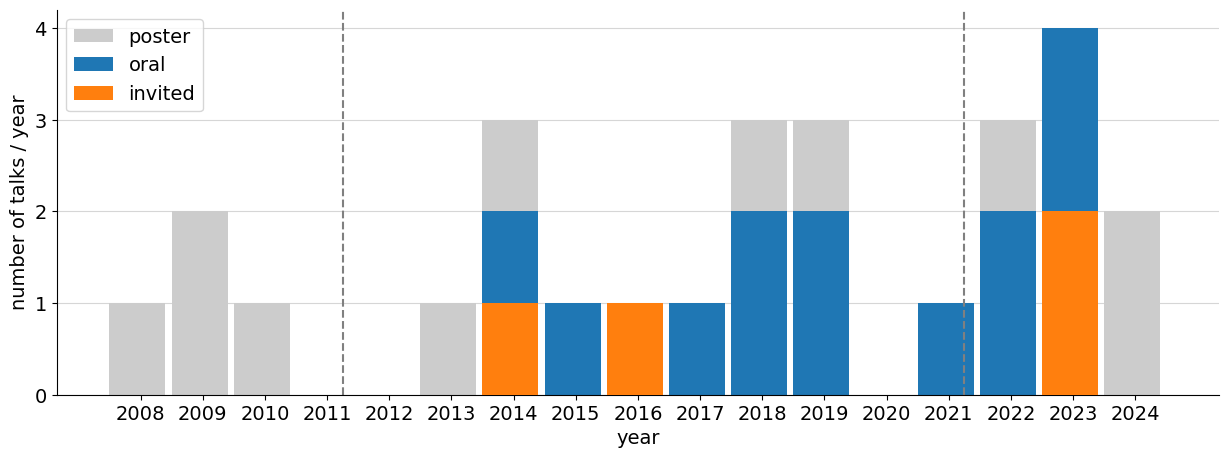
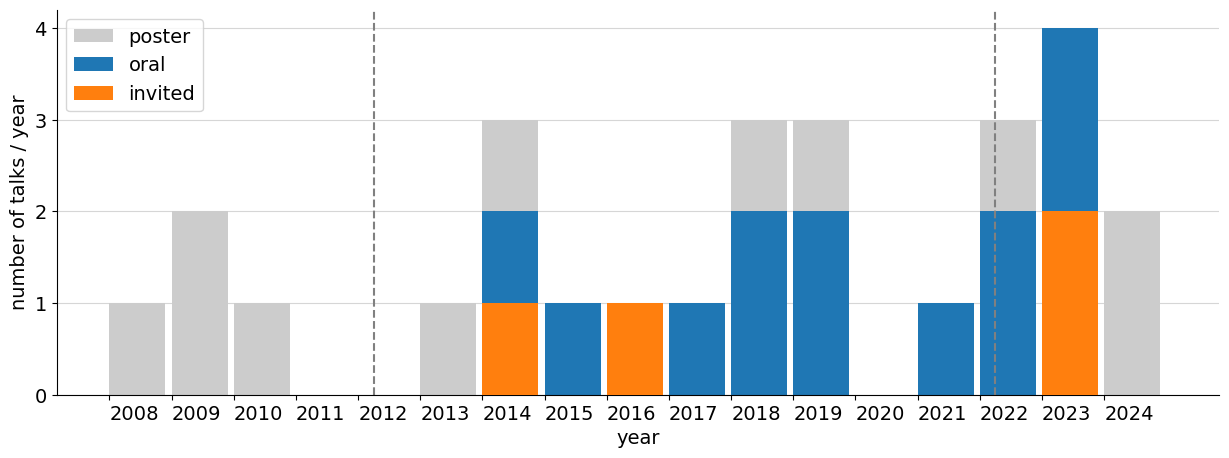
Adding Kajita's ML papers

Changed region(s): [[0.0928, 0.8865, 0.9585, 0.917]]

diff --git a/make_figures.py b/make_figures.py
@@ -56,7 +56,7 @@ years = np.concatenate([first_years, coaut_years])
 plt.figure(figsize=(15, 5))
 plt.hist(first_years, bins=bins, color='C0', width=0.9, label='first authored', zorder=3)
 plt.hist(years, bins=bins, color='0.8', width=0.9, label='all', zorder=1,)
-plt.xticks(bin_centers, ['{}'.format(b) for b in bin_centers]) 
+plt.xticks(bins[:-1], ['{}'.format(b) for b in bin_centers], horizontalalignment='left') 
 plt.gca().yaxis.grid(color='0.8', alpha=0.8)
 plt.xlabel('year')
 plt.ylabel('number of papers / year')
@@ -68,7 +68,7 @@ for y, m, height, position in positions:
         now = now.year + now.month / 12 + 1
     else:
         now = y + m / 12
-        plt.axvline(now - 1, color='0.5', ls='--')
+        plt.axvline(now - 0.5, color='0.5', ls='--')
     plt.text((start + now) / 2 - 1, height, position, color='k', ha='center')
     start = now
     
@@ -100,7 +100,7 @@ plt.figure(figsize=(15, 5))
 plt.hist(years, bins=bins, color='0.8', width=0.9, label='poster', zorder=1)
 plt.hist([y for y, t in zip(years, talk_types) if t in ['oral', 'invited']], bins=bins, color='C0', width=0.9, label='oral', zorder=2)
 plt.hist([y for y, t in zip(years, talk_types) if t == 'invited'], bins=bins, color='C1', width=0.9, label='invited', zorder=3)
-plt.xticks(bin_centers, ['{}'.format(b) for b in bin_centers]) 
+plt.xticks(bins[:-1], ['{}'.format(b) for b in bin_centers], horizontalalignment='left') 
 plt.gca().yaxis.grid(color='0.8', alpha=0.8)
 plt.xlabel('year')
 plt.gca().yaxis.set_major_locator(MaxNLocator(integer=True))
@@ -113,7 +113,7 @@ for y, m, height, position in positions:
         now = now.year + now.month / 12 + 1
     else:
         now = y + m / 12
-        plt.axvline(now - 1, color='0.5', ls='--')
+        plt.axvline(now - 0.5, color='0.5', ls='--')
     start = now
 
 plt.legend(loc='upper left')
@@ -140,7 +140,7 @@ for line in lines[1:]:
 
 plt.figure(figsize=(15, 5))
 plt.hist(years, bins=bins, color='C0', width=0.9)
-plt.xticks(bin_centers, ['{}'.format(b) for b in bin_centers]) 
+plt.xticks(bins[:-1], ['{}'.format(b) for b in bin_centers], horizontalalignment='left') 
 plt.gca().yaxis.grid(color='0.8', alpha=0.8)
 plt.xlabel('year')
 plt.gca().yaxis.set_major_locator(MaxNLocator(integer=True))
@@ -153,7 +153,7 @@ for y, m, height, position in positions:
         now = now.year + now.month / 12 + 1
     else:
         now = y + m / 12
-        plt.axvline(now - 1, color='0.5', ls='--')
+        plt.axvline(now - 0.5, color='0.5', ls='--')
     start = now
 
 sns.despine()

diff --git a/publications/index.md b/publications/index.md
@@ -130,197 +130,207 @@ layout: publications
 <a href="https://doi.org/10.1063/1.3356730">10.1063/1.3356730</a>  
 
 # List of published papers
-1. **Atomic and ionic hydrogen flux probe for quantitative in-situ monitoring of hydrogen recycling**  
+1. **Machine learning aided line intensity ratio method for helium–hydrogen mixed recombining plasmas**  
+ Shin Kajita, Daisuke Nishijima, **<u>Keisuke Fujii</u>**, Hirohiko Tanaka, Jordy Vernimmen, Hennie van der Meiden, Ivo Classen, Noriyasu Ohno  
+ *Plasma Physics and Controlled Fusion* **66,** 105005 (2024)  
+<a href="https://doi.org/10.1088/1361-6587/ad6a81">10.1088/1361-6587/ad6a81</a>  
+
+2. **Application of machine learning for optical emission spectroscopy data in NAGDIS-II**  
+ Shin Kajita, Takehiro Sakakibara, Hideki Kaizawa, Hiroki Natsume, Hirohiko Tanaka, **<u>Keisuke Fujii</u>**, Noriyasu Ohno  
+ *Fusion Engineering and Design* **196,** 114012 (2023)  
+<a href="https://doi.org/10.1016/j.fusengdes.2023.114012">10.1016/j.fusengdes.2023.114012</a>  
+
+3. **Atomic and ionic hydrogen flux probe for quantitative in-situ monitoring of hydrogen recycling**  
  A. Kuzmin, K. Miura, M. Kobayashi, K. Hanada, **<u>K. Fujii</u>**, T. Shikama, M. Hasuo, H. Zushi  
  *Fusion Engineering and Design* **189,** 113462 (2023)  
 <a href="https://doi.org/10.1016/j.fusengdes.2023.113462">10.1016/j.fusengdes.2023.113462</a>  
 
-2. **Use of machine learning for a helium line intensity ratio method in Magnum-PSI**  
+4. **Use of machine learning for a helium line intensity ratio method in Magnum-PSI**  
  Shin Kajita, Sho Iwai, Hirohiko Tanaka, Daisuke Nishijima, **<u>Keisuke Fujii</u>**, Hennie van der Meiden, Noriyasu Ohno  
  *Nuclear Materials and Energy* **33,** 101281 (2022)  
 <a href="https://doi.org/10.1016/j.nme.2022.101281">10.1016/j.nme.2022.101281</a>  
 
-3. **Modeling the wavelength of unresolved transition arrays in the extreme ultraviolet region from Sn to Hf ions by combining theoretical and experimental spectral data**  
+5. **Modeling the wavelength of unresolved transition arrays in the extreme ultraviolet region from Sn to Hf ions by combining theoretical and experimental spectral data**  
  A. Sasaki, **<u>K. Fujii</u>**, I. Murakami, H. A. Sakaue, T. Nishikawa, H. Ohashi, N. Nakamura  
  *AIP Advances* **12,** 025309 (2022)  
 <a href="https://doi.org/10.1063/5.0077130">10.1063/5.0077130</a>  
 
-4. **Comprehensive Laboratory Measurements Resolving the LMM Dielectronic Recombination Satellite Lines in Ne-like Fe xvii Ions**  
- Filipe Grilo, Chintan Shah, Steffen Kühn, René Steinbrügge, **<u>Keisuke Fujii</u>**, José Marques, Ming Feng Gu, José Paulo Santos, José R. Crespo López-Urrutia, Pedro Amaro  
- *The Astrophysical Journal* **913,** 140 (2021)  
-<a href="https://doi.org/10.3847/1538-4357/abf737">10.3847/1538-4357/abf737</a>  
-
-5. **Ro-vibrational population distribution in the ground state of hydrogen isotopologues in LHD peripheral plasmas deduced from emission spectroscopy**  
+6. **Ro-vibrational population distribution in the ground state of hydrogen isotopologues in LHD peripheral plasmas deduced from emission spectroscopy**  
  Hiroki Ishihara, Arseniy Kuzmin, Masahiro Kobayashi, Taiichi Shikama, Keiji Sawada, Seiki Saito, Hiroaki Nakamura, **<u>Keisuke Fujii</u>**, Masahiro Hasuo  
  *Journal of Quantitative Spectroscopy and Radiative Transfer* **267,** 107592 (2021)  
 <a href="https://doi.org/10.1016/j.jqsrt.2021.107592">10.1016/j.jqsrt.2021.107592</a>  
 
-6. **Application of multiple regression for sensitivity analysis of helium line emissions to the electron density and temperature in Magnum-PSI**  
+7. **Comprehensive Laboratory Measurements Resolving the LMM Dielectronic Recombination Satellite Lines in Ne-like Fe xvii Ions**  
+ Filipe Grilo, Chintan Shah, Steffen Kühn, René Steinbrügge, **<u>Keisuke Fujii</u>**, José Marques, Ming Feng Gu, José Paulo Santos, José R. Crespo López-Urrutia, Pedro Amaro  
+ *The Astrophysical Journal* **913,** 140 (2021)  
+<a href="https://doi.org/10.3847/1538-4357/abf737">10.3847/1538-4357/abf737</a>  
+
+8. **Application of multiple regression for sensitivity analysis of helium line emissions to the electron density and temperature in Magnum-PSI**  
  Shin Kajita, Daisuke Nishijima, **<u>Keisuke Fujii</u>**, Gijs Akkermans, Hennie van der Meiden  
  *Plasma Physics and Controlled Fusion* **63,** 055018 (2021)  
 <a href="https://doi.org/10.1088/1361-6587/abf36e">10.1088/1361-6587/abf36e</a>  
 
-7. **On the triad transfer analysis of plasma turbulence: symmetrization, coarse graining, and directional representation**  
+9. **On the triad transfer analysis of plasma turbulence: symmetrization, coarse graining, and directional representation**  
  S Maeyama, M Sasaki, **<u>K Fujii</u>**, T Kobayashi, R O Dendy, Y Kawachi, H Arakawa, S Inagaki  
  *New Journal of Physics* **23,** 043049 (2021)  
 <a href="https://doi.org/10.1088/1367-2630/abeffc">10.1088/1367-2630/abeffc</a>  
 
-8. **Compressing the time series of five dimensional distribution function data from gyrokinetic simulation using principal component analysis**  
+10. **Compressing the time series of five dimensional distribution function data from gyrokinetic simulation using principal component analysis**  
  Yuuichi Asahi, **<u>Keisuke Fujii</u>**, Dennis Manuel Heim, Shinya Maeyama, Xavier Garbet, Virginie Grandgirard, Yanick Sarazin, Guilhem Dif-Pradalier, Yasuhiro Idomura, Masatoshi Yagi  
  *Physics of Plasmas* **28,** 012304 (2021)  
 <a href="https://doi.org/10.1063/5.0023166">10.1063/5.0023166</a>  
 
-9. **Plasma Spectroscopy on an Aluminum-Pellet Ablation Cloud in an LHD Plasma with an Echelle Spectrometer**  
- Hirotaka Tanaka, **<u>Keisuke Fujii</u>**, Taiichi Shikama, Shigeru Morita, Motoshi Goto, Masahiro Hasuo  
- *Atoms* **8,** 81 (2020)  
-<a href="https://doi.org/10.3390/atoms8040081">10.3390/atoms8040081</a>  
-
-10. **Observation of strong two-electron–one-photon transitions in few-electron ions**  
+11. **Observation of strong two-electron–one-photon transitions in few-electron ions**  
  M. Togawa, S. Kühn, C. Shah, P. Amaro, R. Steinbrügge, J. Stierhof, N. Hell, M. Rosner, **<u>K. Fujii</u>**, M. Bissinger, R. Ballhausen, M. Hoesch, J. Seltmann, S. Park, F. Grilo, F. S. Porter, J. P. Santos, M. Chung, T. Stöhlker, J. Wilms, T. Pfeifer, G. V. Brown, M. A. Leutenegger, S. Bernitt, J. R. Crespo López-Urrutia  
  *Physical Review A* **102,** 052831 (2020)  
 <a href="https://doi.org/10.1103/PhysRevA.102.052831">10.1103/PhysRevA.102.052831</a>  
 
-11. **High Resolution Photoexcitation Measurements Exacerbate the Long-Standing Fe XVII Oscillator Strength Problem**  
+12. **Plasma Spectroscopy on an Aluminum-Pellet Ablation Cloud in an LHD Plasma with an Echelle Spectrometer**  
+ Hirotaka Tanaka, **<u>Keisuke Fujii</u>**, Taiichi Shikama, Shigeru Morita, Motoshi Goto, Masahiro Hasuo  
+ *Atoms* **8,** 81 (2020)  
+<a href="https://doi.org/10.3390/atoms8040081">10.3390/atoms8040081</a>  
+
+13. **High Resolution Photoexcitation Measurements Exacerbate the Long-Standing Fe XVII Oscillator Strength Problem**  
  Steffen Kühn, Chintan Shah, José R. Crespo López-Urrutia, **<u>Keisuke Fujii</u>**, René Steinbrügge, Jakob Stierhof, Moto Togawa, Zoltán Harman, Natalia S. Oreshkina, Charles Cheung, Mikhail G. Kozlov, Sergey G. Porsev, Marianna S. Safronova, Julian C. Berengut, Michael Rosner, Matthias Bissinger, Ralf Ballhausen, Natalie Hell, SungNam Park, Moses Chung, Moritz Hoesch, Jörn Seltmann, Andrey S. Surzhykov, Vladimir A. Yerokhin, Jörn Wilms, F. Scott Porter, Thomas Stöhlker, Christoph H. Keitel, Thomas Pfeifer, Gregory V. Brown, Maurice A. Leutenegger, Sven Bernitt  
  *Physical Review Letters* **124,** 225001 (2020)  
 <a href="https://doi.org/10.1103/PhysRevLett.124.225001">10.1103/PhysRevLett.124.225001</a>  
 
-12. **Emission spectroscopy of He lines in high-density plasmas in Magnum-PSI**  
+14. **Emission spectroscopy of He lines in high-density plasmas in Magnum-PSI**  
  Shin Kajita, Gijs Akkermans, **<u>Keisuke Fujii</u>**, Hennie van der Meiden, M. C. M. van de Sanden  
  *AIP Advances* **10,** 025225 (2020)  
 <a href="https://doi.org/10.1063/1.5143481">10.1063/1.5143481</a>  
 
-13. **Isotope Effect on Energy Confinement Time and Thermal Transport in Neutral-Beam-Heated Stellarator-Heliotron Plasmas**  
+15. **Isotope Effect on Energy Confinement Time and Thermal Transport in Neutral-Beam-Heated Stellarator-Heliotron Plasmas**  
  H. Yamada, K. Tanaka, R. Seki, C. Suzuki, K. Ida, **<u>K. Fujii</u>**, M. Goto, S. Murakami, M. Osakabe, T. Tokuzawa, M. Yokoyama, M. Yoshinuma, LHD Experiment Group  
  *Physical Review Letters* **123,** 185001 (2019)  
 <a href="https://doi.org/10.1103/PhysRevLett.123.185001">10.1103/PhysRevLett.123.185001</a>  
 
-14. **Atomic kinetics calculations of complex highly-charged ions in plasmas in non-local thermodynamic equilibrium by using a Monte-Carlo approach**  
+16. **Atomic kinetics calculations of complex highly-charged ions in plasmas in non-local thermodynamic equilibrium by using a Monte-Carlo approach**  
  Akira Sasaki, Richard M. More, **<u>Keisuke Fujii</u>**, Daiji Kato, Izumi Murakami  
  *High Energy Density Physics* **32,** 1-7 (2019)  
 <a href="https://doi.org/10.1016/j.hedp.2019.04.005">10.1016/j.hedp.2019.04.005</a>  
 
-15. **The isotope effect on impurities and bulk ion particle transport in the Large Helical Device**  
+17. **The isotope effect on impurities and bulk ion particle transport in the Large Helical Device**  
  K. Ida, R. Sakamoto, M. Yoshinuma, K. Yamazaki, T. Kobayashi, Y. Fujiwara, C. Suzuki, K. Fuji, J. Chen, I. Murakami, M. Emoto, R. Mackenbach, H. Yamada, G. Motojima, S. Masuzaki, K. Mukai, K. Nagaoka, H. Takahashi, T. Oishi, M. Goto, S. Morita, N. Tamura, H. Nakano, S. Kamio, R. Seki, M. Yokoyama, S. Murakami, M. Nunami, M. Nakata, T. Morisaki, M. Osakabe,  the LHD Experiment Group  
  *Nuclear Fusion* **59,** 056029 (2019)  
 <a href="https://doi.org/10.1088/1741-4326/ab0e41">10.1088/1741-4326/ab0e41</a>  
 
-16. **Spatially resolved laser absorption spectroscopy on a micro-hollow cathode He plasma**  
+18. **Spatially resolved laser absorption spectroscopy on a micro-hollow cathode He plasma**  
  Keisuke Ueno, Kenta Kamebuchi, Jiro Kakutani, Leo Matsuoka, Shinichi Namba, **<u>Keisuke Fujii</u>**, Taiichi Shikama, Masahiro Hasuo  
  *Japanese Journal of Applied Physics* **58,** SAAB03 (2019)  
 <a href="https://doi.org/10.7567/1347-4065/aaec19">10.7567/1347-4065/aaec19</a>  
 
-17. **Analysis of the impurity flow velocity in a wide plasma parameter range for deuterium and hydrogen plasmas in the divertor legs of the stochastic layer in LHD**  
+19. **Analysis of the impurity flow velocity in a wide plasma parameter range for deuterium and hydrogen plasmas in the divertor legs of the stochastic layer in LHD**  
  A. Kuzmin, M. Kobayashi, T. Nakano, G. Kawamura, M. Hasuo, **<u>K. Fujii</u>**, T. Morisaki  
  *Nuclear Materials and Energy* **17,** 217-221 (2018)  
 <a href="https://doi.org/10.1016/j.nme.2018.11.009">10.1016/j.nme.2018.11.009</a>  
 
-18. **Laser absorption spectroscopy for measurement of He metastable atoms of a microhollow cathode plasma**  
+20. **Laser absorption spectroscopy for measurement of He metastable atoms of a microhollow cathode plasma**  
  Keisuke Ueno, Kenta Kamebuchi, Jiro Kakutani, Leo Matsuoka, Shinichi Namba, **<u>Keisuke Fujii</u>**, Taiichi Shikama, Masahiro Hasuo  
  *Japanese Journal of Applied Physics* **57,** 01AA03 (2018)  
 <a href="https://doi.org/10.7567/jjap.57.01aa03">10.7567/jjap.57.01aa03</a>  
 
-19. **Measurements of the Impurity Flow Velocity and Temperature in Deuterium and Hydrogen Plasmas in the Divertor Legs of the Stochastic Layer in LHD**  
- Arseniy KUZMIN, Masahiro KOBAYASHI, Tomohide NAKANO, Masahiro HASUO, **<u>Keisuke FUJII</u>**, Motoshi GOTO, Taiichi SHIKAMA, Tomohiro MORISAKI,  the LHD Experiment Group  
- *Plasma and Fusion Research* **13,** 3402058-3402058 (2018)  
-<a href="https://doi.org/10.1585/pfr.13.3402058">10.1585/pfr.13.3402058</a>  
-
-20. **Spatially Resolved Measurements of Metastable Atom Density and Electric Field Strength in a Microhollow Cathode Helium Plasma by Laser Absorption Spectroscopy**  
+21. **Spatially Resolved Measurements of Metastable Atom Density and Electric Field Strength in a Microhollow Cathode Helium Plasma by Laser Absorption Spectroscopy**  
  Keisuke UENO, Kenta KAMEBUCHI, Jiro KAKUTANI, Leo MATSUOKA, Shinichi NAMBA, **<u>Keisuke FUJII</u>**, Taiichi SHIKAMA, Masahiro HASUO  
  *Plasma and Fusion Research* **13,** 3406070-3406070 (2018)  
 <a href="https://doi.org/10.1585/pfr.13.3406070">10.1585/pfr.13.3406070</a>  
 
-21. **Extension of the operational regime of the LHD towards a deuterium experiment**  
+22. **Measurements of the Impurity Flow Velocity and Temperature in Deuterium and Hydrogen Plasmas in the Divertor Legs of the Stochastic Layer in LHD**  
+ Arseniy KUZMIN, Masahiro KOBAYASHI, Tomohide NAKANO, Masahiro HASUO, **<u>Keisuke FUJII</u>**, Motoshi GOTO, Taiichi SHIKAMA, Tomohiro MORISAKI,  the LHD Experiment Group  
+ *Plasma and Fusion Research* **13,** 3402058-3402058 (2018)  
+<a href="https://doi.org/10.1585/pfr.13.3402058">10.1585/pfr.13.3402058</a>  
+
+23. **Extension of the operational regime of the LHD towards a deuterium experiment**  
  Y. Takeiri, T. Morisaki, M. Osakabe, M. Yokoyama, S. Sakakibara, H. Takahashi, Y. Nakamura, T. Oishi, G. Motojima, S. Murakami, K. Ito, A. Ejiri, S. Imagawa, S. Inagaki, M. Isobe, S. Kubo, S. Masamune, T. Mito, I. Murakami, K. Nagaoka, K. Nagasaki, K. Nishimura, M. Sakamoto, R. Sakamoto, T. Shimozuma, K. Shinohara, H. Sugama, K.Y. Watanabe, J.W. Ahn, N. Akata, T. Akiyama, N. Ashikawa, J. Baldzuhn, T. Bando, E. Bernard, F. Castejón, H. Chikaraishi, M. Emoto, T. Evans, N. Ezumi, **<u>K. Fujii</u>**, H. Funaba, M. Goto, T. Goto, D. Gradic, Y. Gunsu, S. Hamaguchi, H. Hasegawa, Y. Hayashi, C. Hidalgo, T. Higashiguchi, Y. Hirooka, Y. Hishinuma, R. Horiuchi, K. Ichiguchi, K. Ida, T. Ido, H. Igami, K. Ikeda, S. Ishiguro, R. Ishizaki, A. Ishizawa, A. Ito, Y. Ito, A. Iwamoto, S. Kamio, K. Kamiya, O. Kaneko, R. Kanno, H. Kasahara, D. Kato, T. Kato, K. Kawahata, G. Kawamura, M. Kisaki, S. Kitajima, W.H. Ko, M. Kobayashi, S. Kobayashi, T. Kobayashi, K. Koga, A. Kohyama, R. Kumazawa, J.H. Lee, D. López-Bruna, R. Makino, S. Masuzaki, Y. Matsumoto, H. Matsuura, O. Mitarai, H. Miura, J. Miyazawa, N. Mizuguchi, C. Moon, S. Morita, T. Moritaka, K. Mukai, T. Muroga, S. Muto, T. Mutoh, T. Nagasaka, Y. Nagayama, N. Nakajima, Y. Nakamura, H. Nakanishi, H. Nakano, M. Nakata, Y. Narushima, D. Nishijima, A. Nishimura, S. Nishimura, T. Nishitani, M. Nishiura, Y. Nobuta, H. Noto, M. Nunami, T. Obana, K. Ogawa, S. Ohdachi, M. Ohno, N. Ohno, H. Ohtani, M. Okamoto, Y. Oya, T. Ozaki, B.J. Peterson, M. Preynas, S. Sagara, K. Saito, H. Sakaue, A. Sanpei, S. Satake, M. Sato, T. Saze, O. Schmitz, R. Seki, T. Seki, I. Sharov, A. Shimizu, M. Shiratani, M. Shoji, C. Skinner, R. Soga, T. Stange, C. Suzuki, Y. Suzuki, S. Takada, K. Takahata, A. Takayama, S. Takayama, Y. Takemura, Y. Takeuchi, H. Tamura, N. Tamura, H. Tanaka, K. Tanaka, M. Tanaka, T. Tanaka, Y. Tanaka, S. Toda, Y. Todo, K. Toi, M. Toida, M. Tokitani, T. Tokuzawa, H. Tsuchiya, T. Tsujimura, K. Tsumori, S. Usami, J.L. Velasco, H. Wang, T.-H. Watanabe, T. Watanabe, J. Yagi, M. Yajima, H. Yamada, I. Yamada, O. Yamagishi, N. Yamaguchi, Y. Yamamoto, N. Yanagi, R. Yasuhara, E. Yatsuka, N. Yoshida, M. Yoshinuma, S. Yoshimura, Y. Yoshimura  
  *Nuclear Fusion* **57,** 102023 (2017)  
 <a href="https://doi.org/10.1088/1741-4326/aa7fc2">10.1088/1741-4326/aa7fc2</a>  
 
-22. **Behavior of 23S metastable state He atoms in low-temperature recombining plasmas**  
+24. **Behavior of 23S metastable state He atoms in low-temperature recombining plasmas**  
  Shin Kajita, Tadashi Tsujihara, Mitsutoshi Aramaki, Hennie van der Meiden, Hiroshi Oshima, Noriyasu Ohno, Hirohiko Tanaka, Ryo Yasuhara, Tsuyoshi Akiyama, **<u>Keisuke Fujii</u>**, Taiichi Shikama  
  *Physics of Plasmas* **24,** 073301 (2017)  
 <a href="https://doi.org/10.1063/1.4990077">10.1063/1.4990077</a>  
 
-23. **Comparison of Ion Internal Transport Barrier Formation between Hydrogen and Helium Dominated Plasmas**  
+25. **Comparison of Ion Internal Transport Barrier Formation between Hydrogen and Helium Dominated Plasmas**  
  Kenichi NAGAOKA, Hiromi TAKAHASHI, Kenji TANAKA, Masaki OSAKABE, Sadayoshi MURAKAMI, Shogo MAETA, Masayuki YOKOYAMA, **<u>Keisuke FUJII</u>**, Haruhisa NAKANO, Hiroshi YAMADA, Yasuhiko TAKEIRI, Katsumi IDA, Mikiro YOSHINUMA,  the LHD Experiment Group  
  *Plasma and Fusion Research* **11,** 2402106-2402106 (2016)  
 <a href="https://doi.org/10.1585/pfr.11.2402106">10.1585/pfr.11.2402106</a>  
 
-24. **Integrated discharge scenario for high-temperature helical plasma in LHD**  
+26. **Integrated discharge scenario for high-temperature helical plasma in LHD**  
  K. Nagaoka, H. Takahashi, S. Murakami, H. Nakano, Y. Takeiri, H. Tsuchiya, M. Osakabe, K. Ida, M. Yokoyama, M. Yoshinuma, S. Morita, M. Goto, T. Oishi, N. Pablant, **<u>K. Fujii</u>**, K. Tanaka, N. Tamura, Y. Nakamura, X. Du, T. Ido, A. Shimizu, S. Kubo, H. Igami, R. Seki, C. Suzuki, Y. Suzuki, K. Tsumori, K. Ikeda, M. Kisaki, Y. Yoshimura, T. Shimozuma, T. Seki, K. Saito, H. Kasahara, S. Kamio, T. Mutoh, O. Kaneko, H. Yamada, A. Komori  
  *Nuclear Fusion* **55,** 113020 (2015)  
 <a href="https://doi.org/10.1088/0029-5515/55/11/113020">10.1088/0029-5515/55/11/113020</a>  
 
-25. **Overview of transport and MHD stability study: focusing on the impact of magnetic field topology in the Large Helical Device**  
+27. **Overview of transport and MHD stability study: focusing on the impact of magnetic field topology in the Large Helical Device**  
  K. Ida, K. Nagaoka, S. Inagaki, H. Kasahara, T. Evans, M. Yoshinuma, K. Kamiya, S. Ohdach, M. Osakabe, M. Kobayashi, S. Sudo, K. Itoh, T. Akiyama, M. Emoto, A. Dinklage, X. Du, **<u>K. Fujii</u>**, M. Goto, T. Goto, M. Hasuo, C. Hidalgo, K. Ichiguchi, A. Ishizawa, M. Jakubowski, G. Kawamura, D. Kato, S. Morita, K. Mukai, I. Murakami, S. Murakami, Y. Narushima, M. Nunami, N. Ohno, N. Pablant, S. Sakakibara, T. Seki, T. Shimozuma, M. Shoji, K. Tanaka, T. Tokuzawa, Y. Todo, H. Wang, M. Yokoyama, H. Yamada, Y. Takeiri, T. Mutoh, S. Imagawa, T. Mito, Y. Nagayama, K.Y. Watanabe, N. Ashikawa, H. Chikaraishi, A. Ejiri, M. Furukawa, T. Fujita, S. Hamaguchi, H. Igami, M. Isobe, S. Masuzaki, T. Morisaki, G. Motojima, K. Nagasaki, H. Nakano, Y. Oya, C. Suzuki, Y. Suzuki, R. Sakamoto, M. Sakamoto, A. Sanpei, H. Takahashi, H. Tsuchiya, M. Tokitani, Y. Ueda, Y. Yoshimura, S. Yamamoto, K. Nishimura, H. Sugama, T. Yamamoto, H. Idei, A. Isayama, S. Kitajima, S. Masamune, K. Shinohara, P.S. Bawankar, E. Bernard, M. von Berkel, H. Funaba, X.L. Huang, T. Ii, T. Ido, K. Ikeda, S. Kamio, R. Kumazawa, T. Kobayashi, C. Moon, S. Muto, J. Miyazawa, T. Ming, Y. Nakamura, S. Nishimura, K. Ogawa, T. Ozaki, T. Oishi, M. Ohno, S. Pandya, A. Shimizu, R. Seki, R. Sano, K. Saito, H. Sakaue, Y. Takemura, K. Tsumori, N. Tamura, H. Tanaka, K. Toi, B. Wieland, I. Yamada, R. Yasuhara, H. Zhang, O. Kaneko, A. Komori,  Collaborators  
  *Nuclear Fusion* **55,** 104018 (2015)  
 <a href="https://doi.org/10.1088/0029-5515/55/10/104018">10.1088/0029-5515/55/10/104018</a>  
 
-26. **Effect of the RF wall conditioning on the high performance plasmas in the Large Helical Device**  
+28. **Effect of the RF wall conditioning on the high performance plasmas in the Large Helical Device**  
  H. Takahashi, M. Osakabe, K. Nagaoka, H. Nakano, M. Tokitani, **<u>K. Fujii</u>**, S. Murakami, Y. Takeiri, T. Seki, K. Saito, H. Kasahara, R. Seki, S. Kamio, S. Masuzaki, T. Mutoh  
  *Journal of Nuclear Materials* **463,** 1100-1103 (2015)  
 <a href="https://doi.org/10.1016/j.jnucmat.2014.11.131">10.1016/j.jnucmat.2014.11.131</a>  
 
-27. **Flow damping due to stochastization of the magnetic field**  
- K. Ida, M. Yoshinuma, H. Tsuchiya, T. Kobayashi, C. Suzuki, M. Yokoyama, A. Shimizu, K. Nagaoka, S. Inagaki, K. Itoh, T. Akiyama, M. Emoto, T. Evans, A. Dinklage, X. Du, **<u>K. Fujii</u>**, M. Goto, T. Goto, M. Hasuo, C. Hidalgo, K. Ichiguchi, A. Ishizawa, M. Jakubowski, K. Kamiya, H. Kasahara, G. Kawamura, D. Kato, M. Kobayashi, S. Morita, K. Mukai, I. Murakami, S. Murakami, Y. Narushima, M. Nunami, S. Ohdach, N. Ohno, M. Osakabe, N. Pablant, S. Sakakibara, T. Seki, T. Shimozuma, M. Shoji, S. Sudo, K. Tanaka, T. Tokuzawa, Y. Todo, H. Wang, H. Yamada, Y. Takeiri, T. Mutoh, S. Imagawa, T. Mito, Y. Nagayama, K. Y. Watanabe, N. Ashikawa, H. Chikaraishi, A. Ejiri, M. Furukawa, T. Fujita, S. Hamaguchi, H. Igami, M. Isobe, S. Masuzaki, T. Morisaki, G. Motojima, K. Nagasaki, H. Nakano, Y. Oya, Y. Suzuki, R. Sakamoto, M. Sakamoto, A. Sanpei, H. Takahashi, M. Tokitani, Y. Ueda, Y. Yoshimura, S. Yamamoto, K. Nishimura, H. Sugama, T. Yamamoto, H. Idei, A. Isayama, S. Kitajima, S. Masamune, K. Shinohara, P. S. Bawankar, E. Bernard, M. von Berkel, H. Funaba, X. L. Huang, T. Ii, T. Ido, K. Ikeda, S. Kamio, R. Kumazawa, C. Moon, S. Muto, J. Miyazawa, T. Ming, Y. Nakamura, S. Nishimura, K. Ogawa, T. Ozaki, T. Oishi, M. Ohno, S. Pandya, R. Seki, R. Sano, K. Saito, H. Sakaue, Y. Takemura, K. Tsumori, N. Tamura, H. Tanaka, K. Toi, B. Wieland, I. Yamada, R. Yasuhara, H. Zhang, O. Kaneko, A. Komori,  the LHD Experiment Group  
+29. **Flow damping due to stochastization of the magnetic field**  
+ K. Ida, M. Yoshinuma, H. Tsuchiya, T. Kobayashi, C. Suzuki, M. Yokoyama, A. Shimizu, K. Nagaoka, S. Inagaki, K. Itoh,  the LHD Experiment Group, T. Akiyama, M. Emoto, T. Evans, A. Dinklage, X. Du, **<u>K. Fujii</u>**, M. Goto, T. Goto, M. Hasuo, C. Hidalgo, K. Ichiguchi, A. Ishizawa, M. Jakubowski, K. Kamiya, H. Kasahara, G. Kawamura, D. Kato, M. Kobayashi, S. Morita, K. Mukai, I. Murakami, S. Murakami, Y. Narushima, M. Nunami, S. Ohdach, N. Ohno, M. Osakabe, N. Pablant, S. Sakakibara, T. Seki, T. Shimozuma, M. Shoji, S. Sudo, K. Tanaka, T. Tokuzawa, Y. Todo, H. Wang, H. Yamada, Y. Takeiri, T. Mutoh, S. Imagawa, T. Mito, Y. Nagayama, K. Y. Watanabe, N. Ashikawa, H. Chikaraishi, A. Ejiri, M. Furukawa, T. Fujita, S. Hamaguchi, H. Igami, M. Isobe, S. Masuzaki, T. Morisaki, G. Motojima, K. Nagasaki, H. Nakano, Y. Oya, Y. Suzuki, R. Sakamoto, M. Sakamoto, A. Sanpei, H. Takahashi, M. Tokitani, Y. Ueda, Y. Yoshimura, S. Yamamoto, K. Nishimura, H. Sugama, T. Yamamoto, H. Idei, A. Isayama, S. Kitajima, S. Masamune, K. Shinohara, P. S. Bawankar, E. Bernard, M. von Berkel, H. Funaba, X. L. Huang, T. Ii, T. Ido, K. Ikeda, S. Kamio, R. Kumazawa, C. Moon, S. Muto, J. Miyazawa, T. Ming, Y. Nakamura, S. Nishimura, K. Ogawa, T. Ozaki, T. Oishi, M. Ohno, S. Pandya, R. Seki, R. Sano, K. Saito, H. Sakaue, Y. Takemura, K. Tsumori, N. Tamura, H. Tanaka, K. Toi, B. Wieland, I. Yamada, R. Yasuhara, H. Zhang, O. Kaneko, A. Komori  
  *Nature Communications* **6,** 5816 (2015)  
 <a href="https://doi.org/10.1038/ncomms6816">10.1038/ncomms6816</a>  
 
-28. **Development of the Heating Scenarios to Achieve High-Ion Temperature Plasma in the Large Helical Device&lt;sup&gt; &lt;/sup&gt;**  
+30. **Development of the Heating Scenarios to Achieve High-Ion Temperature Plasma in the Large Helical Device&lt;sup&gt; &lt;/sup&gt;**  
  Yasuhiko TAKEIRI, Osamu KANEKO, Masaki OSAKABE, Kenichi NAGAOKA, Sadayoshi MURAKAMI, Hiromi TAKAHASHI, Haruhisa NAKANO, Katsumi IDA, Shigeru MORITA, Masayuki YOKOYAMA, Mikiro YOSHINUMA, **<u>Keisuke FUJII</u>**, Motoshi GOTO, Chihiro SUZUKI, Ryosuke SEKI, Katsuyoshi TSUMORI, Katsunori IKEDA, Masashi KISAKI, Takashi MUTOH, Hiroshi YAMADA, Akio KOMORI,  the LHD Experiment Group  
  *Plasma and Fusion Research* **10,** 1402001-1402001 (2015)  
 <a href="https://doi.org/10.1585/pfr.10.1402001">10.1585/pfr.10.1402001</a>  
 
-29. **Extension of operation regimes and investigation of three-dimensional currentless plasmas in the Large Helical Device**  
+31. **Extension of operation regimes and investigation of three-dimensional currentless plasmas in the Large Helical Device**  
  O. Kaneko, H. Yamada, S. Inagaki, M. Jakubowski, S. Kajita, S. Kitajima,  Kobayashi, K. Koga, T. Morisaki, S. Morita, T. Mutoh, S. Sakakibara, Y. Suzuki, H. Takahashi, K. Tanaka, K. Toi, Y. Yoshimura, T. Akiyama, Y. Asahi, N. Ashikawa, H. Chikaraishi, A. Cooper, D.S. Darrow, E. Drapiko, P. Drewelow, X. Du, A. Ejiri, M. Emoto, T. Evans, N. Ezumi, **<u>K. Fujii</u>**, T. Fukuda, H. Funaba, M. Furukawa, D.A. Gates, M. Goto, T. Goto, W. Guttenfelder, S. Hamaguchi, M. Hasuo, T. Hino, Y. Hirooka, K. Ichiguchi, K. Ida, H. Idei, T. Ido, H. Igami, K. Ikeda, S. Imagawa, T. Imai, M. Isobe, M. Itagaki, T. Ito, K. Itoh, S. Itoh, A. Iwamoto, K. Kamiya, T. Kariya, H. Kasahara, N. Kasuya, D. Kato, T. Kato, K. Kawahata, F. Koike, S. Kubo, R. Kumazawa, D. Kuwahara, S. Lazerson, H. Lee, S. Masuzaki, S. Matsuoka, H. Matsuura, A. Matsuyama, C. Michael, D. Mikkelsen, O. Mitarai, T. Mito, J. Miyazawa, G. Motojima, K. Mukai, A. Murakami, I. Murakami, S. Murakami, T. Muroga, S. Muto, K. Nagaoka, K. Nagasaki, Y. Nagayama, N. Nakajima, H. Nakamura, Y. Nakamura, H. Nakanishi, H. Nakano, T. Nakano, K. Narihara, Y. Narushima, K. Nishimura, S. Nishimura, M. Nishiura, Y.M. Nunami, T. Obana, K. Ogawa, S. Ohdachi, N. Ohno, N. Ohyabu, T. Oishi, M. Okamoto, A. Okamoto, M. Osakabe, Y. Oya, T. Ozaki, N. Pablant, B.J. Peterson, A. Sagara, K. Saito, R. Sakamoto, H. Sakaue, M. Sasao, K. Sato, M. Sato, K. Sawada, R. Seki, T. Seki, V. Sergeev, S. Sharapov, I. Sharov, A. Shimizu, T. Shimozuma, M. Shiratani, M. Shoji, S. Sudo, H. Sugama, C. Suzuki, K. Takahata, Y. Takeiri, Y. Takemura, M. Takeuchi, H. Tamura, N. Tamura, H. Tanaka, T. Tanaka, M. Tingfeng, Y. Todo, M. Tokitani, K. Tokunaga, T. Tokuzawa, H. Tsuchiya, K. Tsumori, Y. Ueda, L. Vyacheslavov, K.Y. Watanabe, T. Watanabe, T.H. Watanabe, B. Wieland, I. Yamada, S. Yamada, S. Yamamoto, N. Yanagi, R. Yasuhara, M. Yokoyama, N. Yoshida, S. Yoshimura, T. Yoshinaga, M. Yoshinuma, A. Komori  
  *Nuclear Fusion* **53,** 104015 (2013)  
 <a href="https://doi.org/10.1088/0029-5515/53/10/104015">10.1088/0029-5515/53/10/104015</a>  
 
-30. **Effective screening of iron impurities in the ergodic layer of the Large Helical Device with a metallic first wall**  
+32. **Effective screening of iron impurities in the ergodic layer of the Large Helical Device with a metallic first wall**  
  S. Morita, C.F. Dong, M. Kobayashi, M. Goto, X.L. Huang, I. Murakami, T. Oishi, E.H. Wang, N. Ashikawa, **<u>K. Fujii</u>**, M. Hasuo, H. Kasahara, D. Kato, F. Koike, S. Masuzaki, H.A. Sakaue, T. Shikama, N. Yamaguchi,  the LHD Experiment Group  
  *Nuclear Fusion* **53,** 093017 (2013)  
 <a href="https://doi.org/10.1088/0029-5515/53/9/093017">10.1088/0029-5515/53/9/093017</a>  
 
-31. **Development of a compact thermal lithium atom beam source for measurements of electron velocity distribution function anisotropy in electron cyclotron resonance plasmas**  
+33. **Development of a compact thermal lithium atom beam source for measurements of electron velocity distribution function anisotropy in electron cyclotron resonance plasmas**  
  T. Nishioka, T. Shikama, S. Nagamizo, **<u>K. Fujii</u>**, H. Zushi, M. Uchida, A. Iwamae, H. Tanaka, T. Maekawa, M. Hasuo  
  *Review of Scientific Instruments* **84,** 073509 (2013)  
 <a href="https://doi.org/10.1063/1.4815721">10.1063/1.4815721</a>  
 
-32. **Evaluation of particle source rate and its influence on particle transport in fusion plasma**  
+34. **Evaluation of particle source rate and its influence on particle transport in fusion plasma**  
  M Goto, K Sawada, **<u>K Fujii</u>**, M Hasuo, S Morita  
  *Journal of Physics: Conference Series* **397,** 012023 (2012)  
 <a href="https://doi.org/10.1088/1742-6596/397/1/012023">10.1088/1742-6596/397/1/012023</a>  
 
-33. **Wideband High-Resolution Spectroscopy on Al-pellet Ablation Plasmas in Large Helical Device**  
+35. **Wideband High-Resolution Spectroscopy on Al-pellet Ablation Plasmas in Large Helical Device**  
  M Hasuo, **<u>K Fujii</u>**, T Shikama, S Morita, M Goto, H Tanaka  
  *Journal of Physics: Conference Series* **397,** 012016 (2012)  
 <a href="https://doi.org/10.1088/1742-6596/397/1/012016">10.1088/1742-6596/397/1/012016</a>  
 
-34. **A simultaneous measurement of polarization-resolved spectra of neutral helium 23P–33D, 21P–31D and 23P–33S emissions from the periphery of a Large Helical Device plasma**  
+36. **A simultaneous measurement of polarization-resolved spectra of neutral helium 23P–33D, 21P–31D and 23P–33S emissions from the periphery of a Large Helical Device plasma**  
  K Mizushiri, **<u>K Fujii</u>**, T Shikama, A Iwamae, M Goto, S Morita, M Hasuo  
  *Plasma Physics and Controlled Fusion* **53,** 105012 (2011)  
 <a href="https://doi.org/10.1088/0741-3335/53/10/105012">10.1088/0741-3335/53/10/105012</a>  
 
-35. **Plasma polarization spectroscopy of atomic and molecular emissions from magnetically confined plasmas1This review is part of a Special Issue on the 10th International Colloquium on Atomic Spectra and Oscillator Strengths for Astrophysical and Laboratory Plasmas.**  
+37. **Plasma polarization spectroscopy of atomic and molecular emissions from magnetically confined plasmas1This review is part of a Special Issue on the 10th International Colloquium on Atomic Spectra and Oscillator Strengths for Astrophysical and Laboratory Plasmas.**  
  T. Shikama, **<u>K. Fujii</u>**, S. Kado, H. Zushi, M. Sakamoto, A. Iwamae, M. Goto, S. Morita, M. Hasuo  
  *Canadian Journal of Physics* **89,** 495-501 (2011)  
 <a href="https://doi.org/10.1139/p10-118">10.1139/p10-118</a>  
 
-36. **Evaluation of hydrogen atom density in the plasma core region based on the Balmer-𝛂 line profile**  
+38. **Evaluation of hydrogen atom density in the plasma core region based on the Balmer-𝛂 line profile**  
  M. Goto, K. Sawada, **<u>K. Fujii</u>**, M. Hasuo, S. Morita  
  *Nuclear Fusion* **51,** 023005 (2011)  
 <a href="https://doi.org/10.1088/0029-5515/51/2/023005">10.1088/0029-5515/51/2/023005</a>  
 
-37. **Calculation of a magnetic field effect on emission spectra of light diatomic molecules for diagnostic application to fusion edge plasmas**  
+39. **Calculation of a magnetic field effect on emission spectra of light diatomic molecules for diagnostic application to fusion edge plasmas**  
  T Shikama, **<u>K Fujii</u>**, K Mizushiri, M Hasuo, S Kado, H Zushi  
  *Plasma Physics and Controlled Fusion* **51,** 122001 (2009)  
 <a href="https://doi.org/10.1088/0741-3335/51/12/122001">10.1088/0741-3335/51/12/122001</a>  
 
-38. **Edge and Core Impurity Transport Study with Spectroscopic Instruments in LHD**  
+40. **Edge and Core Impurity Transport Study with Spectroscopic Instruments in LHD**  
  Shigeru Morita, Motoshi Goto, Masahiro Kobayashi, Sadatsugu Muto, Malay Bikas Chowdhuri, Dong Chunfeng, Zhou Hangyu, Cui Zhengying, **<u>Keisuke Fujii</u>**, Akihiro Furuzawa, Masahiro Hasuo, Atsushi Iwamae, Jie Yinxian, Mohammed Koubiti, Ikuya Sakurai, Yuzuru Tawara, Wan Baonian, Wu Zhenwei, Naohiro Yamaguchi  
  *Plasma Science and Technology* **11,** 402-408 (2009)  
 <a href="https://doi.org/10.1088/1009-0630/11/4/07">10.1088/1009-0630/11/4/07</a>  
 
-39. **Gene transfer device utilizing micron-spiked electrodes produced by the self-organization phenomenon of Fe-alloy**  
+41. **Gene transfer device utilizing micron-spiked electrodes produced by the self-organization phenomenon of Fe-alloy**  
  Naoki Miyano, Yuuki Inoue, Yuji Teramura, **<u>Keisuke Fujii</u>**, Fujio Tsumori, Hiroo Iwata, Hidetoshi Kotera  
  *Lab on a Chip* **8,** 1104 (2008)  
 <a href="https://doi.org/10.1039/b718655j">10.1039/b718655j</a>  
